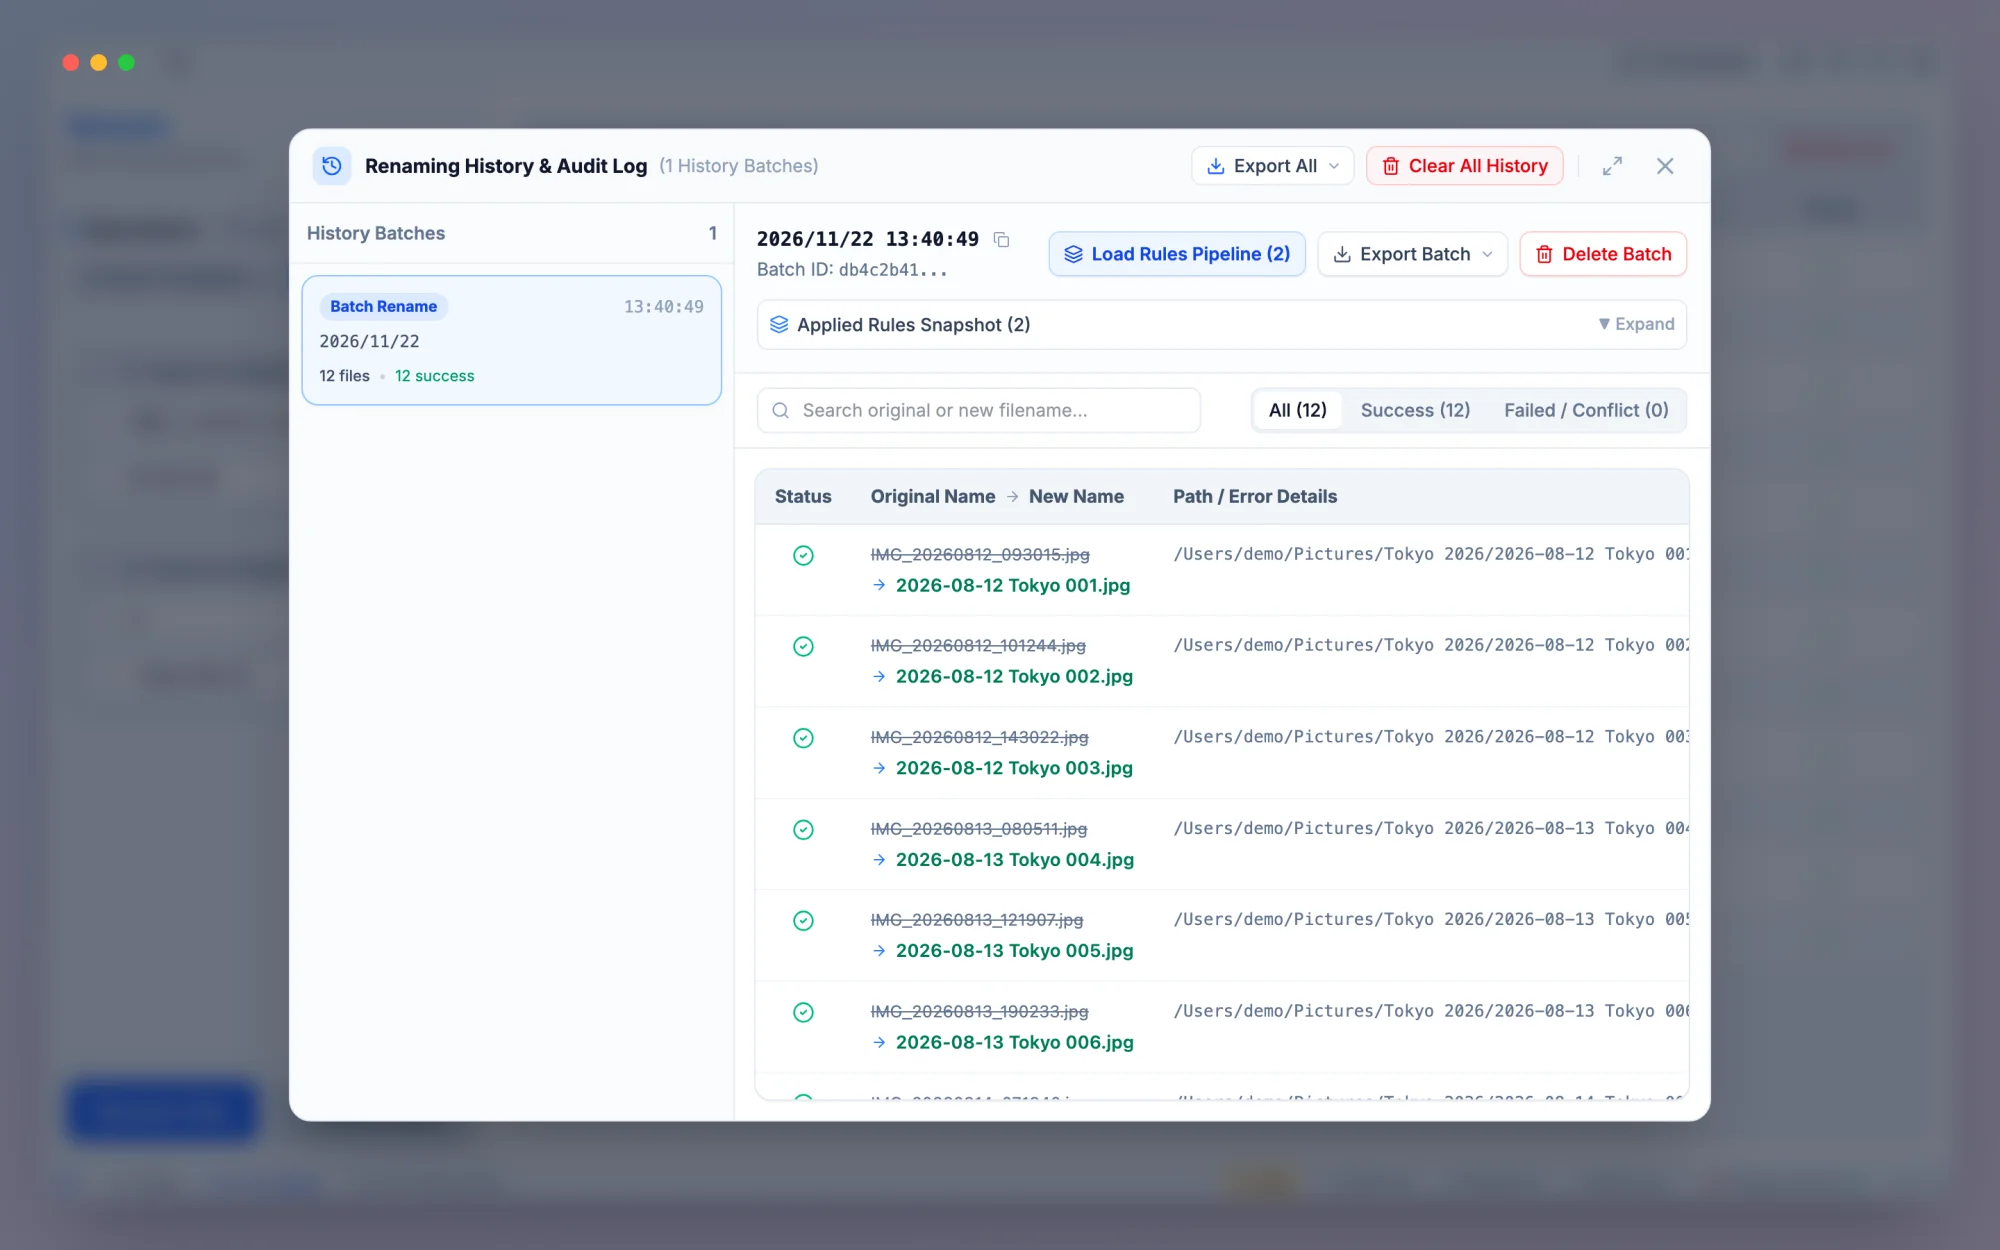
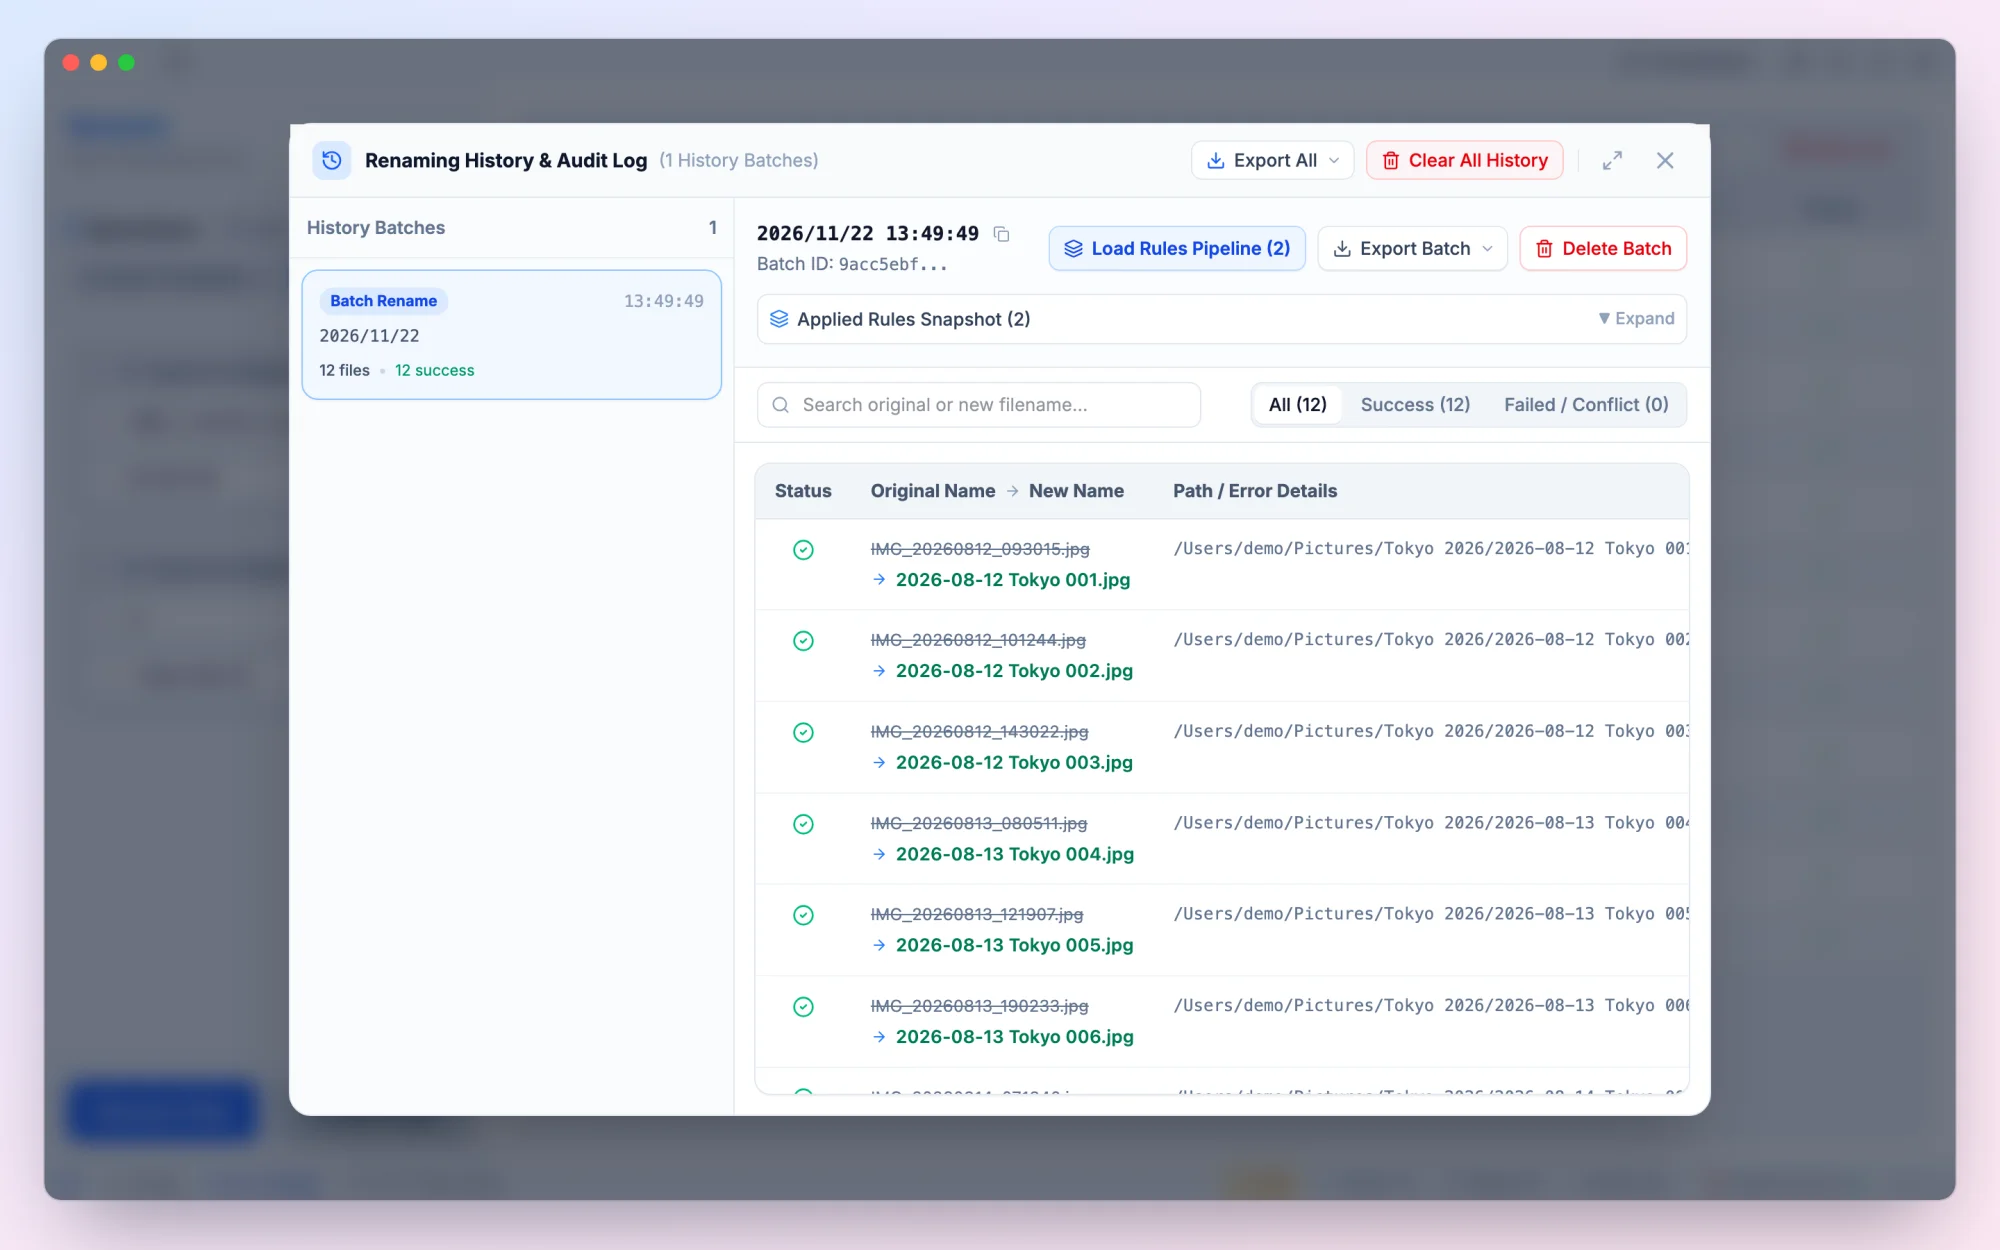
docs: ✏ — keep dialog overlays inside the window frame in screenshots

diff --git a/src/dev/demoScenes.ts b/src/dev/demoScenes.ts
@@ -80,6 +80,12 @@ function installWindowFrame() {
       box-shadow: 0 30px 60px -20px rgba(15, 23, 42, .45), 0 0 0 1px rgba(15, 23, 42, .12);
     }
     html.demo-frame #app > div { height: 100% !important; }
+    /* Teleported dialogs cover the viewport; keep their overlay inside the window. */
+    html.demo-frame body > .fixed.inset-0 {
+      top: 28px; left: 32px; right: 32px; bottom: 36px;
+      border-radius: 12px;
+      overflow: hidden;
+    }
     html.demo-frame #app::before {
       content: '';
       position: absolute;
